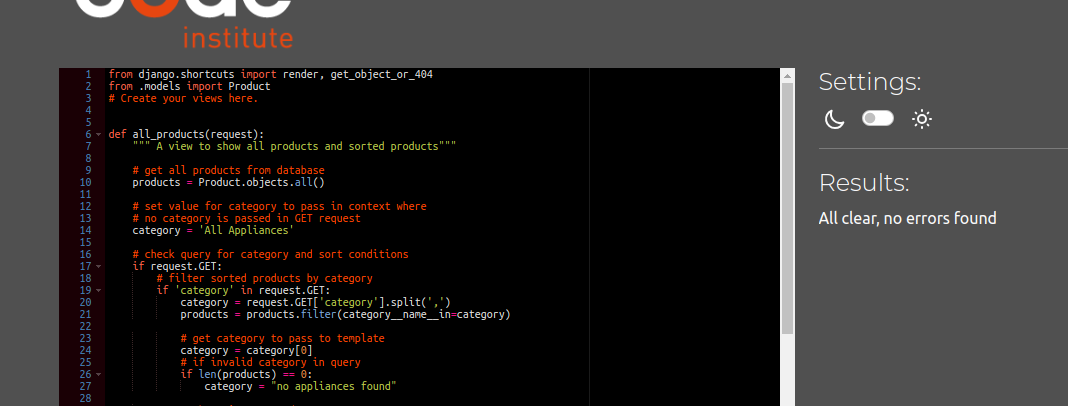
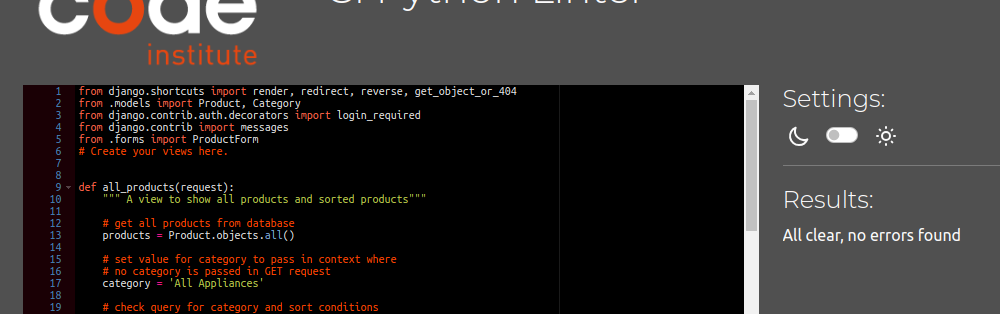
pep8 style changes

diff --git a/products/forms.py b/products/forms.py
@@ -8,7 +8,6 @@ class ProductForm(forms.ModelForm):
         model = Product
         fields = '__all__'
 
-
     def __init__(self, *args, **kwargs):
         super().__init__(*args, **kwargs)
         categories = Category.objects.all()
@@ -16,4 +15,5 @@ class ProductForm(forms.ModelForm):
 
         self.fields['category'].choices = names
         for field_name, field in self.fields.items():
-            field.widget.attrs['class'] = 'border-primary shadow-none rounded-0 mt-3'
+            field.widget.attrs['class'] = 'border-primary \
+            shadow-none rounded-0 mt-3'
